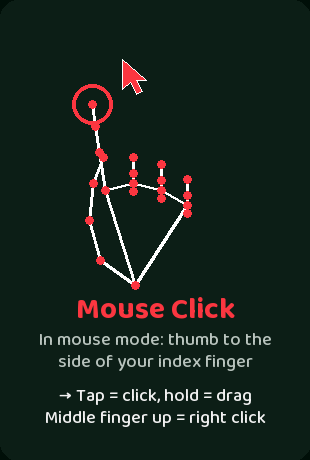
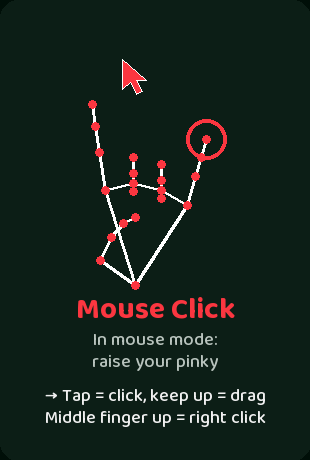
Air mouse: raise the pinky to click and drag

diff --git a/src/mouse.py b/src/mouse.py
@@ -1,11 +1,13 @@
-"""Air mouse: your index fingertip moves the cursor, your thumb clicks and drags.
+"""Air mouse: your index fingertip moves the cursor, your pinky clicks and drags.
 
 Point (index finger only) and hold to start; make a fist and hold to stop.
+Raise your pinky to click (keep it up to drag) and your middle finger for a right click.
 While it is on, the other gestures are switched off so they cannot fire by accident.
 """
 import ctypes
 import math
 import time
+from collections import deque
 
 import cv2
 
@@ -21,14 +23,16 @@ REGION = (0.2, 0.8, 0.15, 0.75)
 POINT_HOLD_S = 0.8  # hold the pointing sign this long to start
 EXIT_HOLD_S = 0.7  # hold a fist this long to stop
 AUTO_EXIT_S = 6.0  # stop by itself if your hand is out of view this long
-PINCH_ON = 0.30  # thumb tip this close to the index finger (x hand size) = pressed
-PINCH_OFF = 0.42  # ...and released when it is farther than this
+PINKY_ON = 1.35  # pinky tip this far from the wrist, compared with its base = pinky up (pressed)
+PINKY_OFF = 1.15  # ...and released when it drops below this
+SETTLE_BACK_S = 0.12  # on a press, put the cursor back to where it was this long ago
+CLICK_FREEZE_S = 0.15  # ...and hold it there this long, so raising the pinky cannot drag it
 RIGHT_CLICK_HOLD_S = 0.25  # hold the middle finger up this long for a right click
 DRAG_AFTER_S = 0.4  # a press held this long is shown as "Dragging"
 FLASH_S = 0.6
 
-WRIST, THUMB_TIP, THUMB_IP, INDEX_MCP, INDEX_PIP, INDEX_TIP = 0, 4, 3, 5, 6, 8
-PINKY_MCP = 17
+WRIST, THUMB_TIP, THUMB_IP, INDEX_TIP = 0, 4, 3, 8
+PINKY_MCP, PINKY_TIP = 17, 20
 
 
 def _dist(a, b):
@@ -101,6 +105,8 @@ class AirMouse:
         self._smooth = Smoother()
         self._pressed = False
         self._press_since = 0.0
+        self._freeze_until = 0.0
+        self._trail = deque()  # recent cursor positions: (time, x, y)
         self._middle_since = None
         self._right_armed = True
         self._fist_since = None
@@ -113,6 +119,7 @@ class AirMouse:
         self._last_seen = now
         self._smooth.reset()
         self._pressed = False
+        self._trail.clear()
         self._middle_since = self._fist_since = None
         self._right_armed = True
         self._flash, self._flash_until = "Mouse mode on", now + FLASH_S
@@ -165,17 +172,28 @@ class AirMouse:
             x0, x1, y0, y1 = REGION
             nx = min(max((lm[INDEX_TIP].x - x0) / (x1 - x0), 0.0), 1.0)
             ny = min(max((lm[INDEX_TIP].y - y0) / (y1 - y0), 0.0), 1.0)
-            move_cursor(*self._smooth(nx * (SCREEN_W - 1), ny * (SCREEN_H - 1)))
+            if now >= self._freeze_until:
+                x, y = self._smooth(nx * (SCREEN_W - 1), ny * (SCREEN_H - 1))
+                move_cursor(x, y)
+                self._trail.append((now, x, y))
+                while self._trail and now - self._trail[0][0] > 0.5:
+                    self._trail.popleft()
 
-        # Thumb tip to the side of the index finger = press (a quick tap is a click,
-        # holding it while you move is a drag).
-        size = _dist(lm[WRIST], lm[9])
-        gap = _dist(lm[THUMB_TIP], lm[INDEX_PIP]) / size if size else 1.0
-        if not self._pressed and gap < PINCH_ON and not middle_up:
+        # Pinky up = press. A quick tap is a click; keeping it up while you move is a drag.
+        reach = _dist(lm[PINKY_TIP], lm[WRIST]) / max(_dist(lm[PINKY_MCP], lm[WRIST]), 1e-6)
+        if not self._pressed and reach > PINKY_ON and not middle_up:
+            # Raising the pinky nudges the hand, so go back to where the cursor was a
+            # moment ago and keep it there briefly before pressing.
+            back = [p for p in self._trail if p[0] <= now - SETTLE_BACK_S]
+            if back:
+                _, x, y = back[-1]
+                move_cursor(x, y)
+                self._smooth.x, self._smooth.y = x, y
+            self._freeze_until = now + CLICK_FREEZE_S
             self._pressed, self._press_since = True, now
             button("left", True)
             self._flash, self._flash_until = "Click", now + 0.25
-        elif self._pressed and gap > PINCH_OFF:
+        elif self._pressed and reach < PINKY_OFF:
             self._pressed = False
             button("left", False)
 

diff --git a/src/help_screen.py b/src/help_screen.py
@@ -41,7 +41,6 @@ THUMB = {
     "out": [(115, 245), (90, 218), (68, 196), (48, 178)],
     "in": [(115, 245), (126, 222), (138, 208), (150, 202)],
     "loop": [(115, 245), (95, 215), (82, 180), (76, 140)],
-    "press": [(115, 245), (104, 205), (108, 168), (118, 142)],  # tip on the side of the index
 }
 
 
@@ -80,7 +79,7 @@ L_HAND = hand("out", "up", "curl", "curl", "curl")
 PINKY_HAND = hand("in", "curl", "curl", "curl", "up")
 RING_HAND = hand("in", "curl", "curl", "up", "up")
 POINT_HAND = hand("in", "up", "curl", "curl", "curl")
-CLICK_HAND = hand("press", "up", "curl", "curl", "curl")
+CLICK_HAND = hand("in", "up", "curl", "curl", "up")  # pointing, with the pinky raised
 
 
 def draw_skeleton(draw, pts, cx, cy, scale=1.0, mirror=False):
@@ -193,13 +192,14 @@ def build_help_image():
                 draw_arrow_v(d, y + 80, y + 250, x + 105)
         return art
 
-    def mouse(pts, click):
+    def mouse(pts, ring=None):
         def art(d, x, y):
             draw_skeleton(d, pts, x - 20, y + 190)
-            tip_x, tip_y = x - 20 + (POINT_HAND[8][0] - 150), y + 190 + (POINT_HAND[8][1] - 170)
+            tip_x, tip_y = x - 20 + (pts[8][0] - 150), y + 190 + (pts[8][1] - 170)
             draw_cursor(d, tip_x + 30, tip_y - 45)
-            if click:  # click rings at the fingertip
-                d.ellipse([tip_x - 20, tip_y - 20, tip_x + 20, tip_y + 20], outline=ACCENT, width=4)
+            if ring is not None:  # a ring around the landmark that does the clicking
+                rx, ry = x - 20 + (pts[ring][0] - 150), y + 190 + (pts[ring][1] - 170)
+                d.ellipse([rx - 20, ry - 20, rx + 20, ry + 20], outline=ACCENT, width=4)
         return art
 
     def growth(outward):
@@ -239,9 +239,9 @@ def build_help_image():
     tile(draw, 0, 4, "Enter", "Ring and pinky up,\nindex and middle curled",
          "Presses the Enter key", single(RING_HAND), fonts)
     tile(draw, 1, 4, "Mouse Mode", "Point with your index finger\nand hold",
-         "Your fingertip moves the cursor.\nA fist held stops it", mouse(POINT_HAND, False), fonts)
-    tile(draw, 2, 4, "Mouse Click", "In mouse mode: thumb to the\nside of your index finger",
-         "Tap = click, hold = drag\nMiddle finger up = right click", mouse(CLICK_HAND, True), fonts)
+         "Your fingertip moves the cursor.\nA fist held stops it", mouse(POINT_HAND), fonts)
+    tile(draw, 2, 4, "Mouse Click", "In mouse mode:\nraise your pinky",
+         "Tap = click, keep up = drag\nMiddle finger up = right click", mouse(CLICK_HAND, 20), fonts)
 
     centered(draw, "Scroll: mouse wheel, arrows or W/S. Close: the X or H",
              fonts["sub"], img.width / 2, img.height - 38, GREY)

diff --git a/README.md b/README.md
@@ -87,7 +87,7 @@ Hold the sign steady for a moment. The app waits about a third of a second after
 | **Escape** | Only the pinky up, other fingers curled | Presses the Esc key (skipped while the Camera window is in front, since Esc would quit the app) |
 | **Enter** | Ring and pinky up, index and middle curled | Presses the Enter key |
 | **Mouse Mode** | Point with your index finger only (thumb tucked in) and hold | Starts the [air mouse](#air-mouse): your fingertip moves the cursor. A held fist stops it |
-| **Mouse Click** | In mouse mode: thumb to the side of your index finger | Tap = click, hold = drag. Middle finger up = right click |
+| **Mouse Click** | In mouse mode: raise your pinky | Tap = click, keep it up = drag. Middle finger up = right click |
 
 > **Careful with Push:** a two-hand push asks the window in front to close, like clicking its X. Programs with unsaved work will still ask you to save first.
 
@@ -124,7 +124,7 @@ Use your hand as a mouse:
 
 1. **Start:** point with your index finger only (thumb tucked in, other fingers curled) and hold for about a second. The camera window shows "Mouse mode on".
 2. **Move:** your index fingertip moves the cursor. A thin white rectangle in the camera window shows the part of the picture that covers the whole screen, so you can reach every edge. The cursor is smoothed, steady when you move slowly and quick when you move fast.
-3. **Click and drag:** touch the side of your index finger with your thumb. A quick tap is a click. Keep the thumb pressed while you move to drag.
+3. **Click and drag:** raise your pinky. A quick tap is a click. Keep the pinky up while you move to drag, and lower it to let go. The cursor jumps back to where it was a moment before, so raising the pinky does not nudge your click.
 4. **Right click:** raise your middle finger for a moment. The cursor stays put while you do it.
 5. **Stop:** make a fist and hold. It also stops by itself if your hand is out of view for 6 seconds.
 
